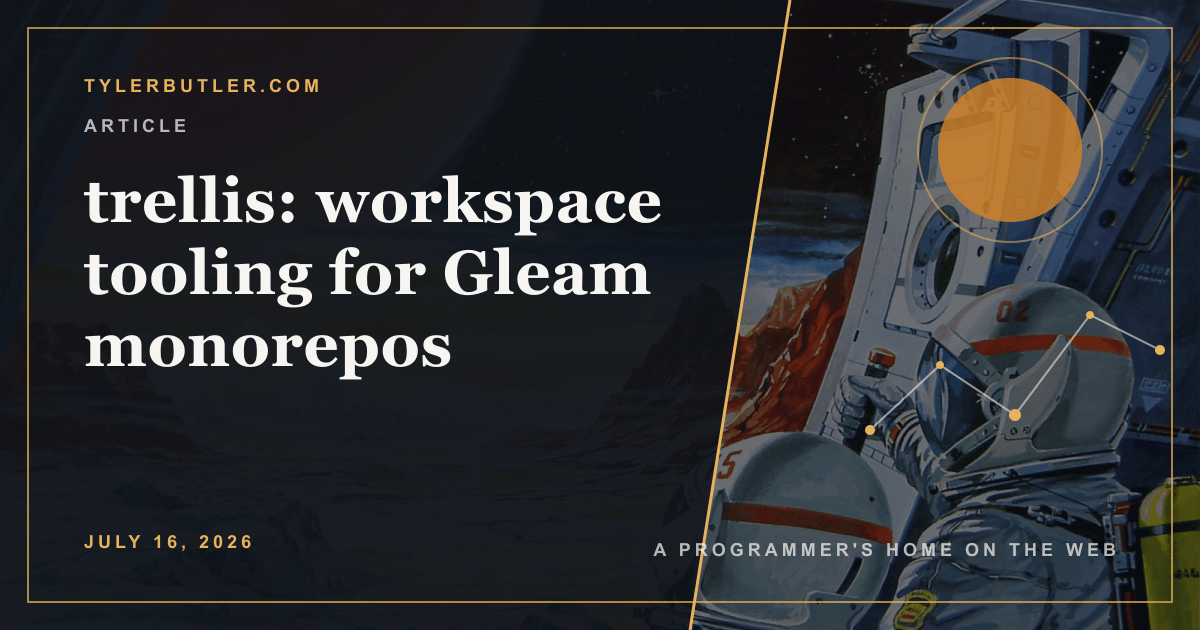
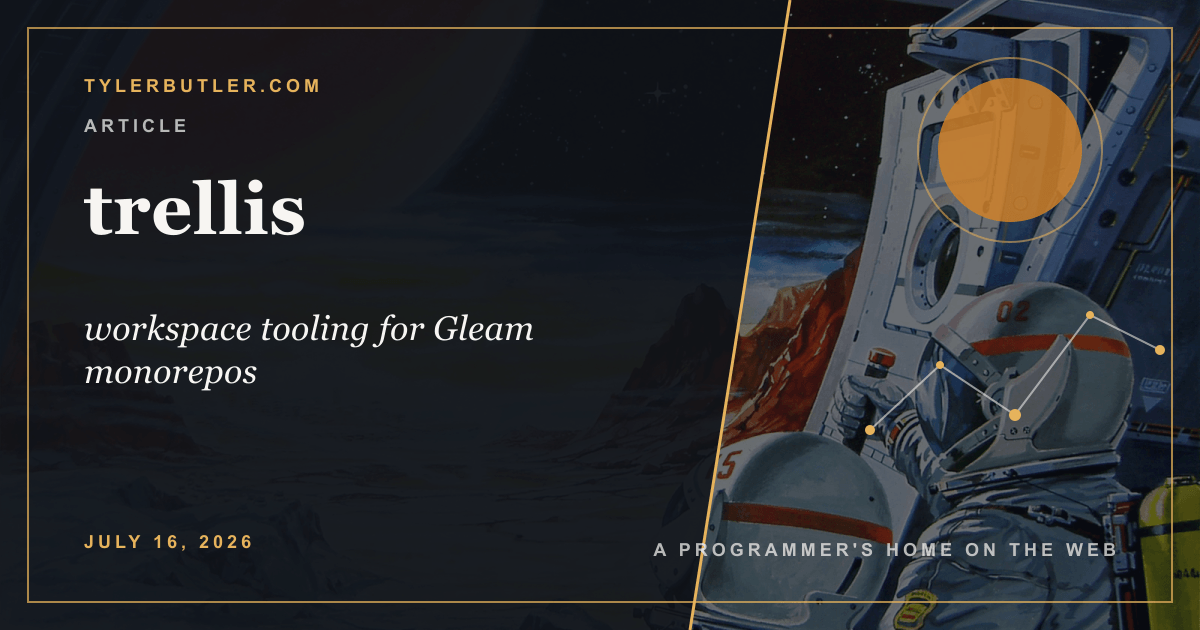
feat(articles): support subtitles

Changed region(s): [[0.0617, 0.2714, 0.555, 0.6333]]

diff --git a/src/pages/feed.xml.ts b/src/pages/feed.xml.ts
@@ -4,7 +4,7 @@ import rss from "@astrojs/rss";
 import type { APIContext } from "astro";
 import { experimental_AstroContainer as AstroContainer } from "astro/container";
 import sanitizeHtml from "sanitize-html";
-import { getArticleUrl } from "../lib/article-utils";
+import { getArticleDisplayTitle, getArticleUrl } from "../lib/article-utils";
 import { includeDraft } from "../lib/draft-utils";
 
 export async function GET(context: APIContext) {
@@ -27,14 +27,15 @@ export async function GET(context: APIContext) {
     site: context.site || "https://tylerbutler.com",
     items: await Promise.all(
       sortedArticles.map(async (article) => {
+        const title = getArticleDisplayTitle(article);
         // Render the article content using Astro's unified markdown pipeline
         const { Content } = await render(article);
         const html = await container.renderToString(Content);
 
         return {
-          title: article.data.title,
+          title,
           pubDate: article.data.date,
-          description: article.data.excerpt || article.data.title,
+          description: article.data.excerpt || title,
           content: sanitizeHtml(html, {
             allowedTags: sanitizeHtml.defaults.allowedTags.concat(["img"]),
           }),

diff --git a/src/pages/feed.json.ts b/src/pages/feed.json.ts
@@ -3,7 +3,7 @@ import mdxRenderer from "@astrojs/mdx/server.js";
 import type { APIContext } from "astro";
 import { experimental_AstroContainer as AstroContainer } from "astro/container";
 import sanitizeHtml from "sanitize-html";
-import { getArticleUrl } from "../lib/article-utils";
+import { getArticleDisplayTitle, getArticleUrl } from "../lib/article-utils";
 import { includeDraft } from "../lib/draft-utils";
 
 export async function GET(context: APIContext) {
@@ -23,6 +23,7 @@ export async function GET(context: APIContext) {
 
   const items = await Promise.all(
     sortedArticles.map(async (article) => {
+      const title = getArticleDisplayTitle(article);
       const { Content } = await render(article);
       const html = await container.renderToString(Content);
       const url = `${siteUrl}${getArticleUrl(article)}/`;
@@ -30,7 +31,7 @@ export async function GET(context: APIContext) {
       return {
         id: url,
         url,
-        title: article.data.title,
+        title,
         content_html: sanitizeHtml(html, {
           allowedTags: sanitizeHtml.defaults.allowedTags.concat(["img"]),
         }),

diff --git a/src/lib/article-utils.ts b/src/lib/article-utils.ts
@@ -15,6 +15,14 @@ export function getArticleUrl(article: CollectionEntry<"articles">): string {
   return `/${getArticleSlug(article)}`;
 }
 
+export function getArticleDisplayTitle(
+  article: CollectionEntry<"articles">,
+): string {
+  return article.data.subtitle
+    ? `${article.data.title}: ${article.data.subtitle}`
+    : article.data.title;
+}
+
 export function getArticleSlug(article: CollectionEntry<"articles">): string {
   return article.id;
 }

diff --git a/src/lib/styles/article-page.css b/src/lib/styles/article-page.css
@@ -129,6 +129,15 @@
   margin: 0 0 0.5em 0;
 }
 
+.article-subtitle {
+  margin: -0.25em 0 1em;
+  color: var(--text-light);
+  font-family: adelle, Georgia, serif;
+  font-size: clamp(20px, 3.5vw, 26px);
+  font-style: italic;
+  line-height: 1.35;
+}
+
 .link-post-reference {
   margin-bottom: 2em;
   padding: 1em;

diff --git a/src/content/articles/trellis.md b/src/content/articles/trellis.md
@@ -1,6 +1,7 @@
 ---
 
-title: 'trellis: workspace tooling for Gleam monorepos'
+title: 'trellis'
+subtitle: 'workspace tooling for Gleam monorepos'
 date: '2026-07-16T21:32:00-07:00'
 slug: trellis
 tags:
